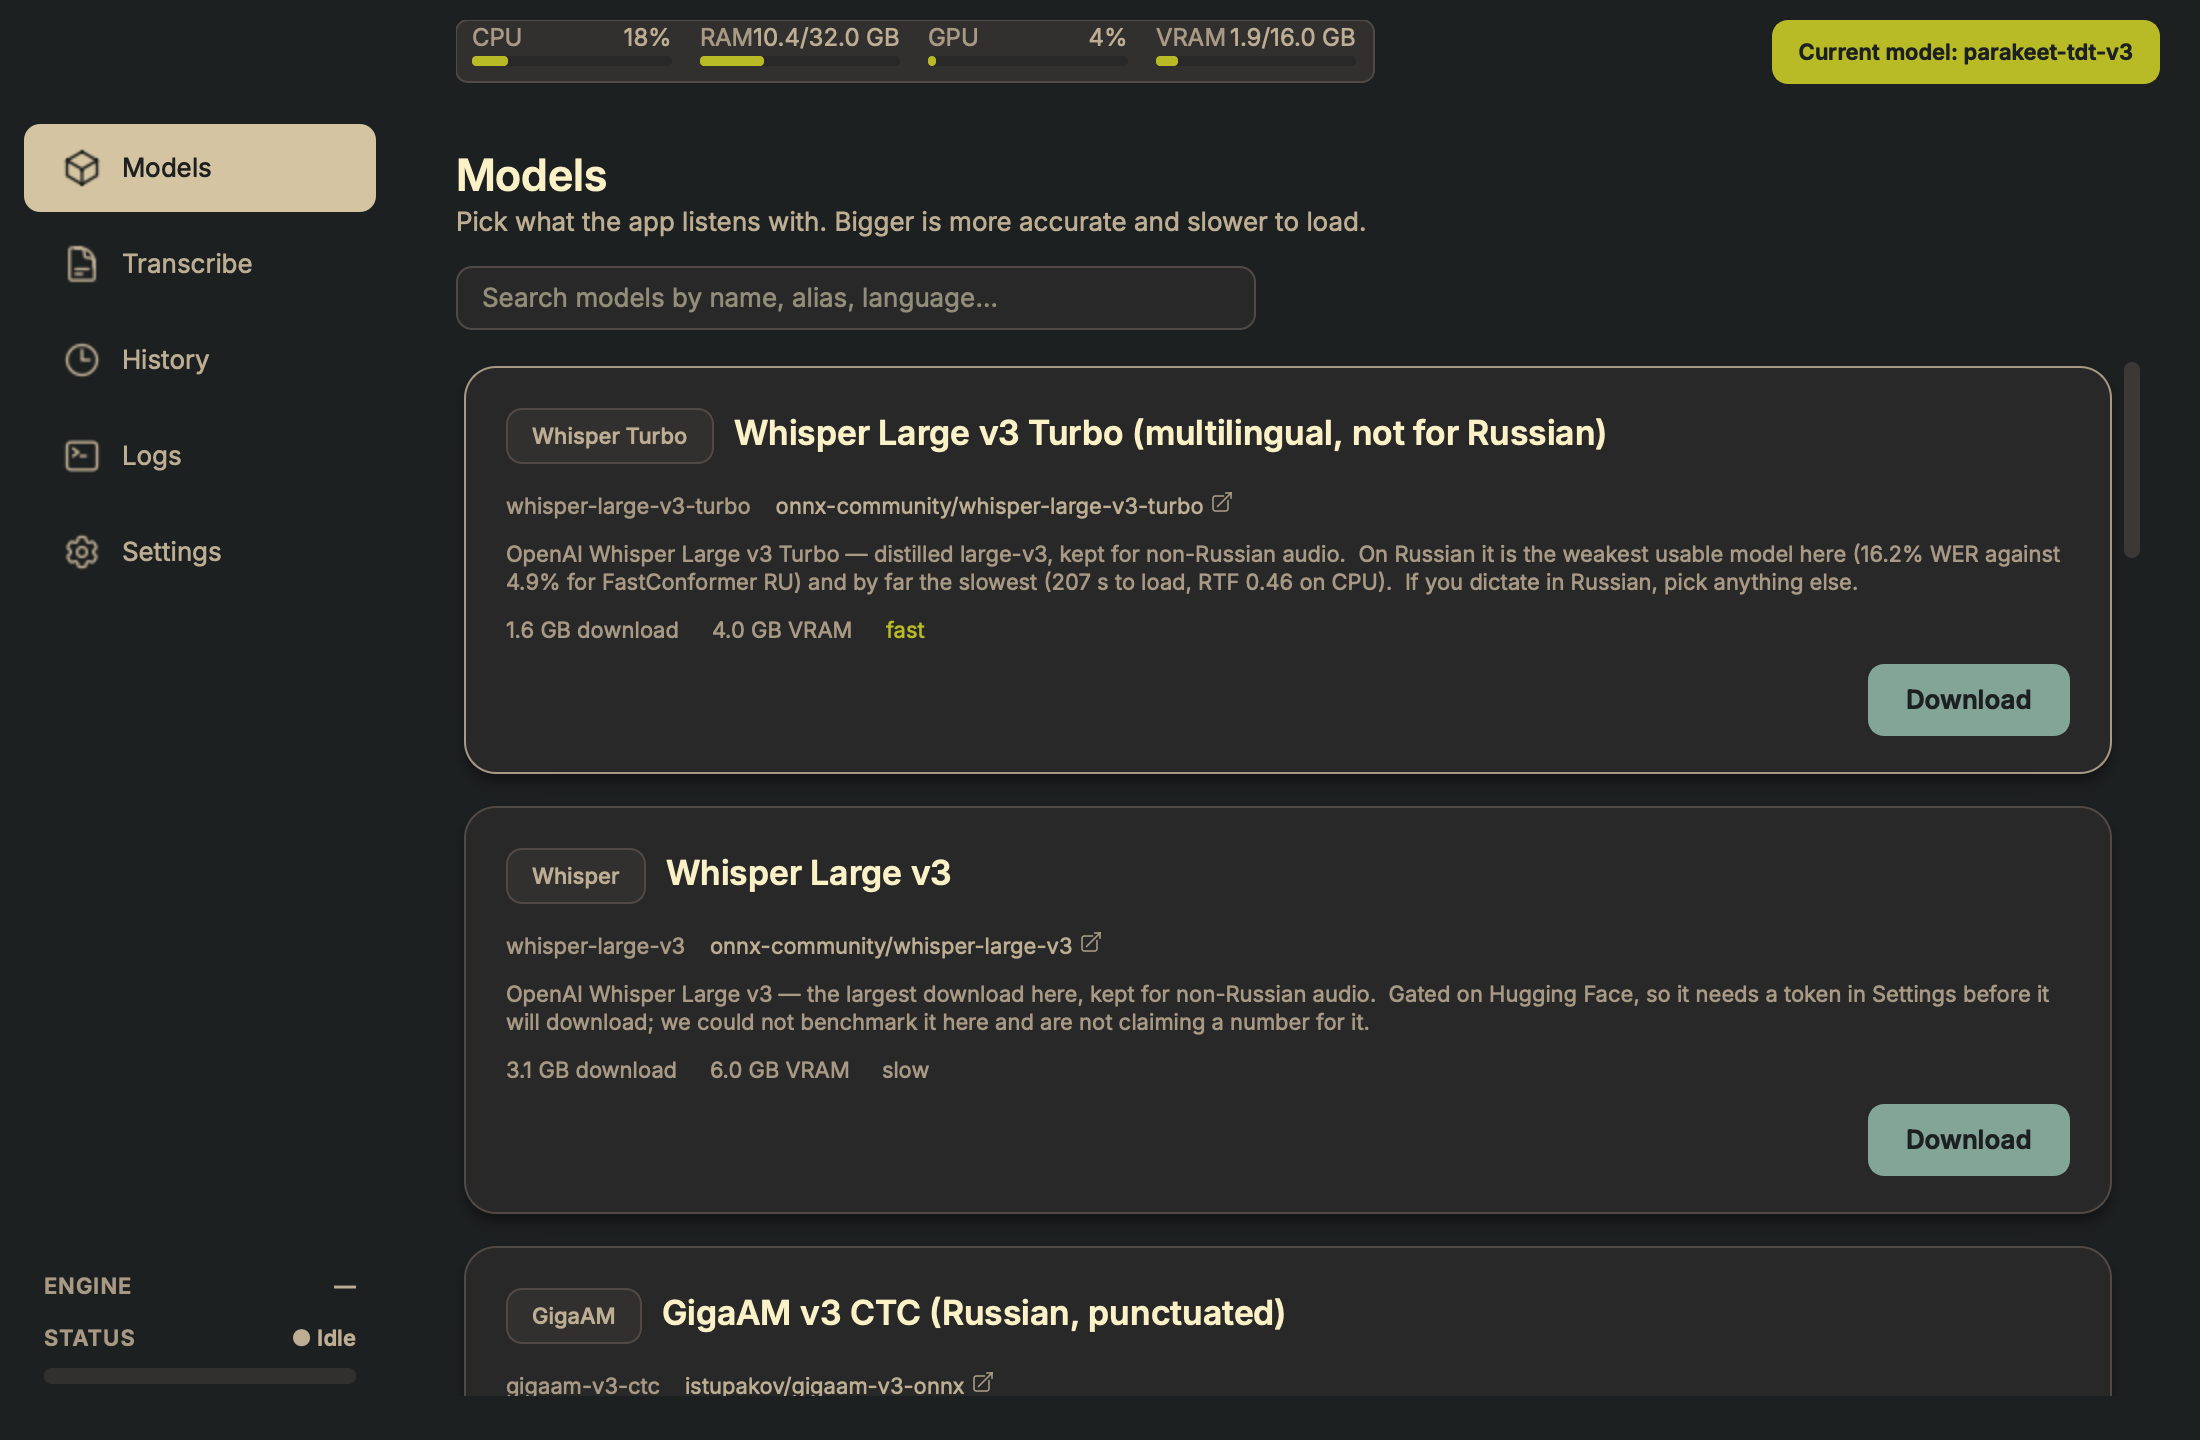
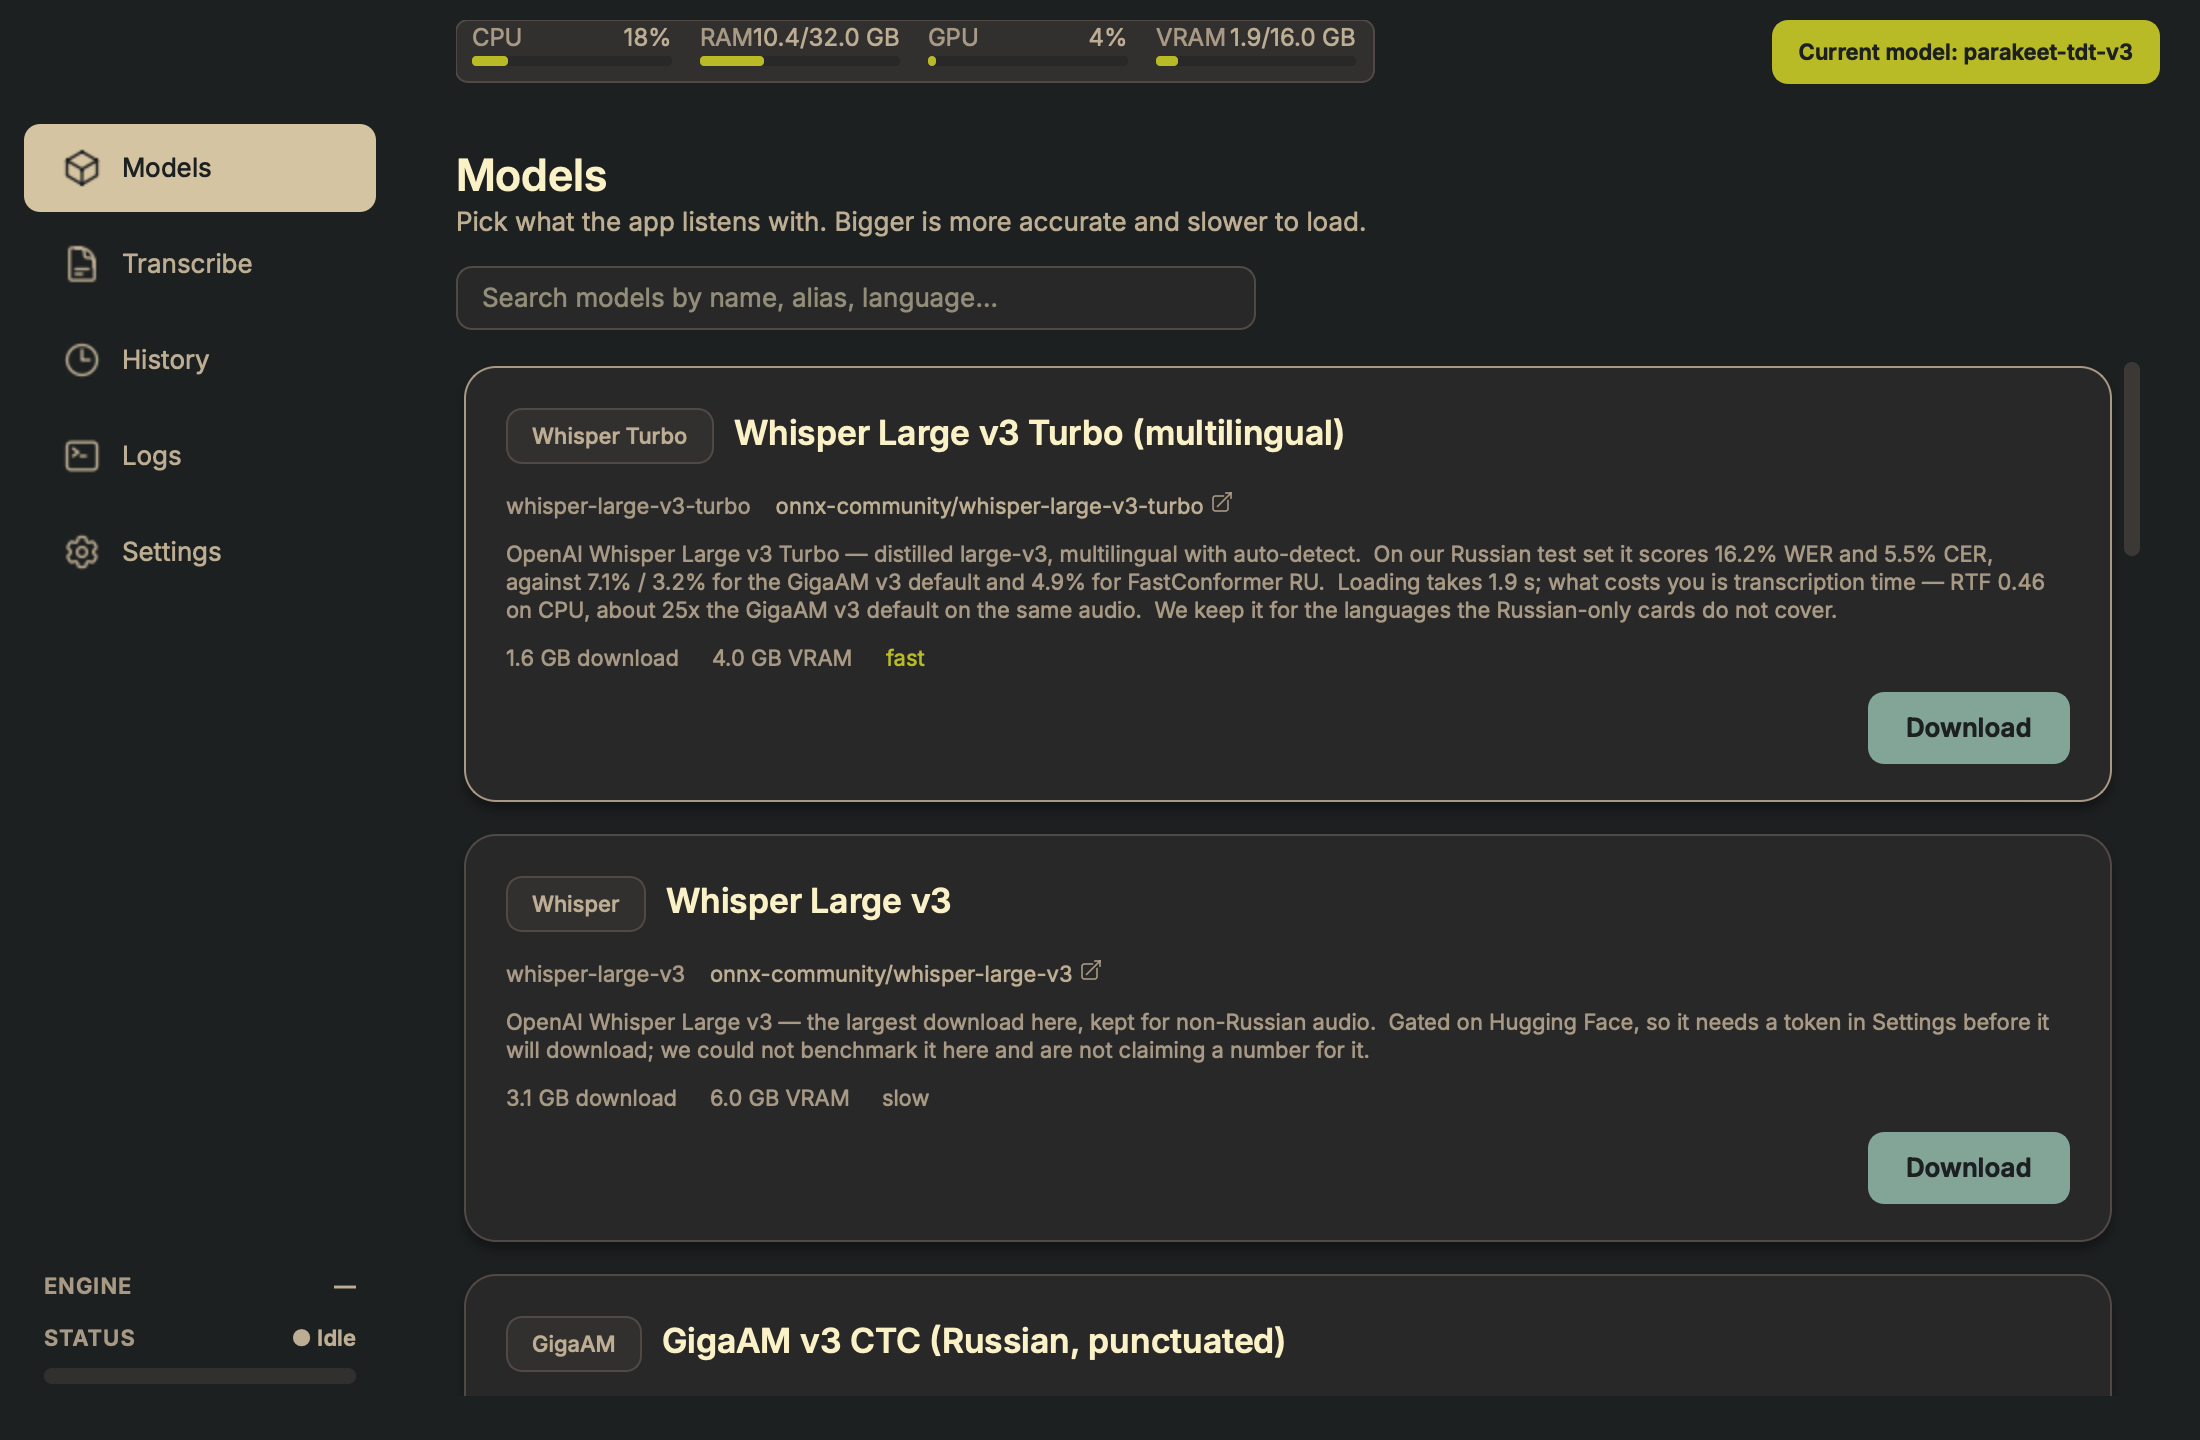
fix(models): two card numbers were wrong, and one of them was a verdict about dictation I never measured
Re-ran the Golos benchmark on the three cards involved (400 clips, 370
in the 1554-word speech bucket) and it did not confirm what the cards
said.

"207 s to load" on whisper-large-v3-turbo was never a load. It was the
first-run download, recorded as load time. The model loads in 1.9 s —
the same order as everything else in the catalogue. What genuinely
costs something is inference: RTF 0.46 on CPU against 0.018 for the
GigaAM v3 default on the same audio. The old "42x" compared against an
earlier, faster reading of the default; both sides are re-measured now
and the ratio is 25x. A card telling someone to expect a three-minute
wait that never happens is worse than no number.

Then the verdict. The heading said "not for Russian", the body said
"the weakest usable model here", and the last line said "if you dictate
in Russian, pick anything else". Only the middle one is a measurement.
The other two are conclusions about free dictation, and the test set is
voice-assistant commands two seconds long — a domain this app is not
for. A user who says the model handles their dictation is reporting on
something we never scored, and 16.2% WER on short commands does not
settle it. So the card keeps the numbers and the reason the card is
here, and drops the advice.

gigaam-multilingual-ctc was wrong in the other direction: it claimed
"for Russian dictation GigaAM v3 is better", and the measurement says
6.2% WER against v3's 7.1% — a tie inside the +-1.0-1.8 a
[…]

diff --git a/app/model_mapping.py b/app/model_mapping.py
@@ -143,29 +143,49 @@ class ModelInfo:
 
 MODELS: Tuple[ModelInfo, ...] = (
     # ---- Whisper Turbo (large-v3 distilled, multilingual) ------------------
-    # The card used to call this "best general-purpose multilingual
-    # model".  On Russian it is the worst practical option in the
-    # catalogue: 16.2% WER on 370 spoken clips, against 4.9% for
-    # FastConformer RU and 7.1% for the GigaAM v3 default.  It also
-    # costs 207 s to load and runs at RTF 0.46 on CPU — 42x slower than
-    # GigaAM v3 on the same audio.  "6x faster than large-v3" is the
-    # vendor's number against a model we could not benchmark here; it
-    # says nothing about being good at Russian.
+    # Re-measured 2026-10-05 on the Golos test split (400 clips, 370 of
+    # them in the 1554-word speech bucket), because two numbers in the
+    # version below did not survive it.
+    #
+    # It used to say "not for Russian" in the heading, "the weakest
+    # usable model here" in the body, and "if you dictate in Russian,
+    # pick anything else". Only the middle of those three is a
+    # measurement — 16.2% WER is 16.2% WER. The other two are verdicts
+    # about a use this test cannot speak to: Golos is voice-assistant
+    # commands, two seconds each, not the free dictation this app is
+    # for, and a user who says the model handles their dictation is
+    # reporting on a domain we never scored. So the card states the
+    # numbers and the reason the card is in the catalogue, and stops
+    # there. Do not re-add a suitability verdict without a measurement
+    # of dictation, not of commands.
+    #
+    # "207 s to load" was wrong and is gone: that was the first-run
+    # download, not a load. Loading is 1.9 s — the same order as
+    # everything else here. What genuinely costs something is inference:
+    # RTF 0.46 on CPU against 0.018 for the GigaAM v3 default on the same
+    # audio, 25x, which is why the card leads with time rather than
+    # size. The old "42x" compared against an earlier, faster reading
+    # of the default; both are re-measured numbers now.
+    #
+    # "6x faster than large-v3" remains the vendor's claim about a model
+    # we could not benchmark here (gated), so it stays attributed.
     ModelInfo(
         alias="whisper-large-v3-turbo",
         canonical="onnx-community/whisper-large-v3-turbo",
-        display_name="Whisper Large v3 Turbo (multilingual, not for Russian)",
+        display_name="Whisper Large v3 Turbo (multilingual)",
         size_mb=1620,
         vram_gb=4.0,
         speed="fast",
         quality="excellent",
         languages="multilingual",
         description=(
-            "OpenAI Whisper Large v3 Turbo — distilled large-v3, kept for "
-            "non-Russian audio.  On Russian it is the weakest usable "
-            "model here (16.2% WER against 4.9% for FastConformer RU) and "
-            "by far the slowest (207 s to load, RTF 0.46 on CPU).  If you "
-            "dictate in Russian, pick anything else."
+            "OpenAI Whisper Large v3 Turbo — distilled large-v3, multilingual "
+            "with auto-detect.  On our Russian test set it scores 16.2% WER "
+            "and 5.5% CER, against 7.1% / 3.2% for the GigaAM v3 default "
+            "and 4.9% for FastConformer RU.  Loading takes 1.9 s; what costs "
+            "you is transcription time — RTF 0.46 on CPU, about 25x the "
+            "GigaAM v3 default on the same audio.  We keep it for the "
+            "languages the Russian-only cards do not cover."
         ),
         compute_type="float16",
         family="Whisper Turbo",
@@ -282,13 +302,26 @@ MODELS: Tuple[ModelInfo, ...] = (
     # the release that taught the loader to read these weights at all,
     # and 0.11.0 answers "Invalid model type 'gigaam-multilingual-ctc'".
     #
-    # It is NOT a replacement for gigaam-v3-ctc. This is a plain CTC
-    # head — no punctuation, no capitalisation, no ITN. Measured on the
-    # same clips, the v3 e2e models return capitalised, punctuated text
-    # from the same audio. Reach for this card when the audio is not
-    # Russian: on a Kazakh clip it returns the sentence essentially
-    # verbatim, where v3 e2e produces Russian-alphabet mush
-    # ("Бугун аварая жахсы Безакай") and T-One transliterates it.
+    # It is NOT a drop-in replacement for gigaam-v3-ctc. This is a plain
+    # CTC head — no punctuation, no capitalisation. Measured on the same
+    # clips, the v3 e2e models return capitalised, punctuated text from
+    # the same audio. Reach for this card when the audio is not Russian:
+    # on a Kazakh clip it returns the sentence essentially verbatim,
+    # where v3 e2e produces Russian-alphabet mush ("Бугун аварая жахсы
+    # Безакай") and T-One transliterates it.
+    #
+    # What the card used to get wrong is the other half of that. It said
+    # "for Russian dictation GigaAM v3 is better", and the measurement
+    # says the opposite, or rather says nothing of the kind: 6.2% WER
+    # against v3's 7.1% is a tie inside the +-1.0-1.8 confidence interval
+    # a 1554-word sample buys. Two other columns are not a tie, though.
+    # CER 1.4% against 3.2%, and spoken numbers at 0% WER against v3's
+    # 46% — this card writes "407 745" where v3 garbles it. For a dictation
+    # app those numbers get pasted into a document, so the tie on words
+    # is not the whole story.
+    #
+    # The real reason to prefer v3 is the output shape, not the accuracy:
+    # punctuation and capitals. Say that, and only that.
     #
     # int8 is the default, not an accident: 225 MB instead of the 885 MB
     # full-precision weights, with no measured loss on either test clip.
@@ -303,10 +336,13 @@ MODELS: Tuple[ModelInfo, ...] = (
         languages="Russian, Kazakh, Kyrgyz, Uzbek, English",
         description=(
             "GigaAM Multilingual — Russian, Kazakh, Kyrgyz, Uzbek and "
-            "English in one 240M model.  Returns lowercase unpunctuated "
-            "text, so it is the one to pick for Kazakh, Kyrgyz or Uzbek "
-            "audio; for Russian dictation GigaAM v3 is better and comes "
-            "with punctuation."
+            "English in one 240M model.  On our Russian test set it scores "
+            "6.2% WER and 1.4% CER, level with the GigaAM v3 default's 7.1% "
+            "on words and ahead of its 3.2% on characters, and it writes "
+            "spoken numbers correctly where v3 garbles them (0% against "
+            "46%).  Returns lowercase unpunctuated text, so it is the one "
+            "to pick for Kazakh, Kyrgyz or Uzbek audio; for Russian pick "
+            "GigaAM v3 when you want punctuation and capitals."
         ),
         compute_type="int8",
         family="GigaAM",
